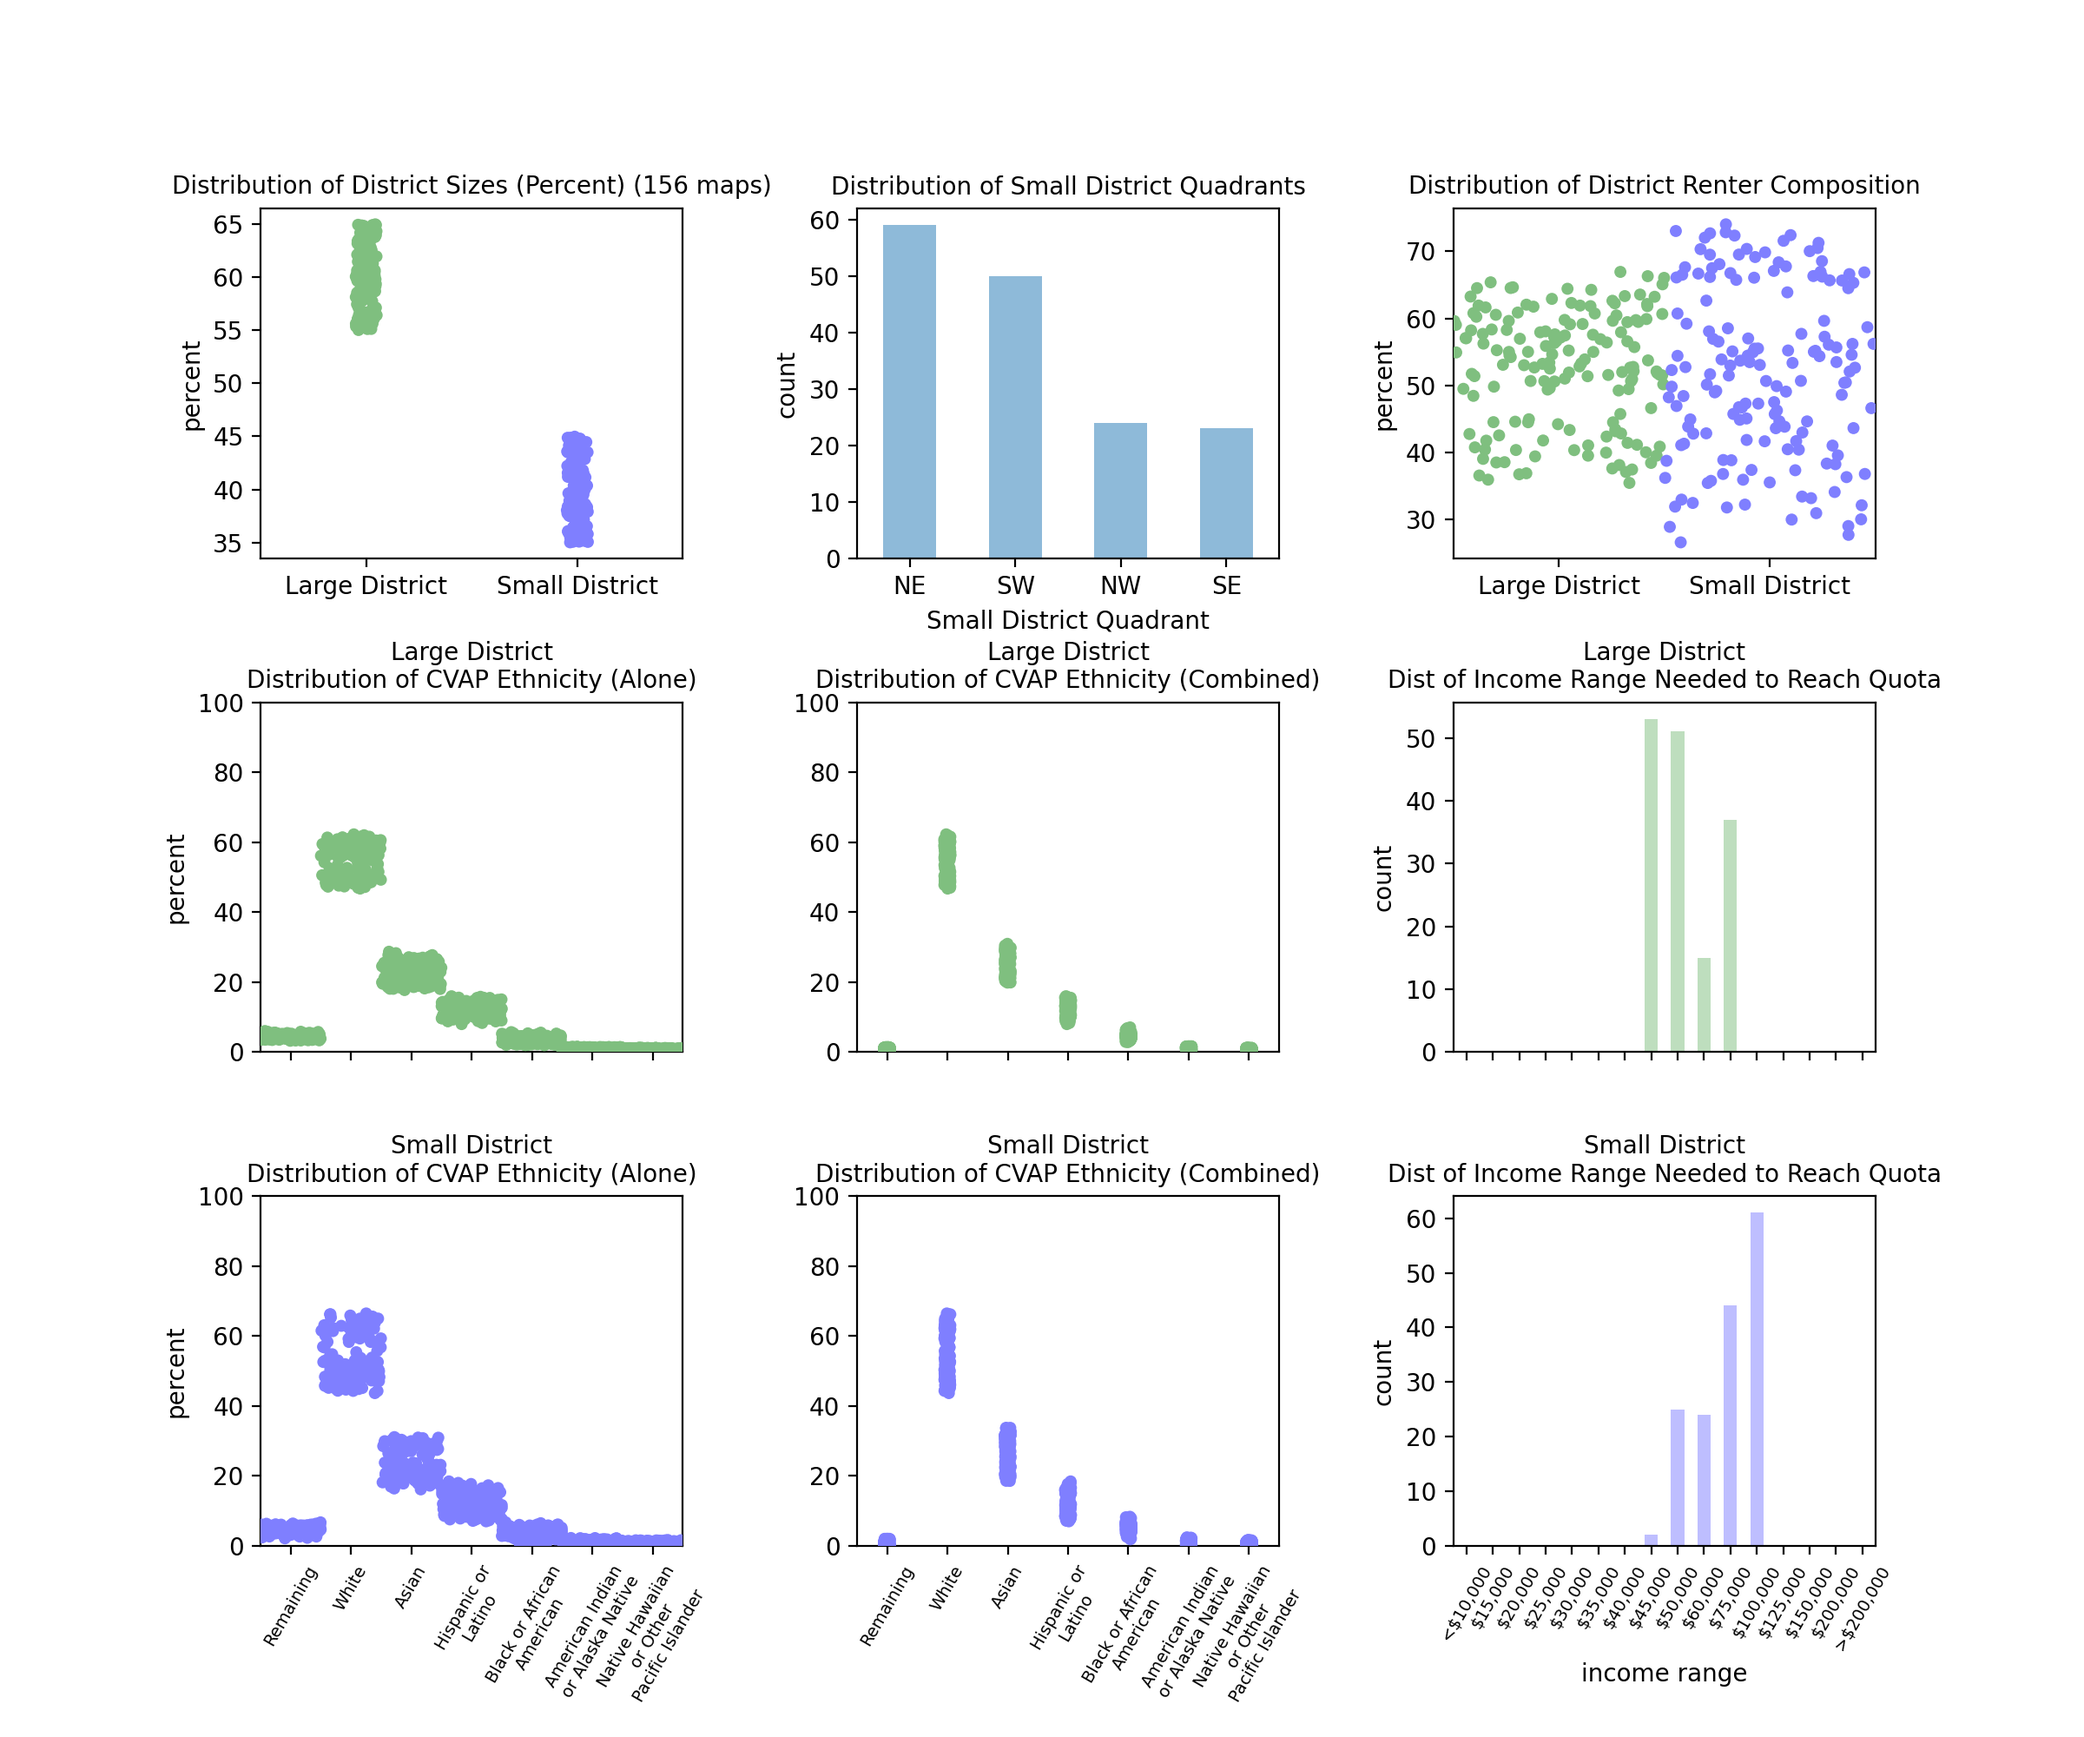
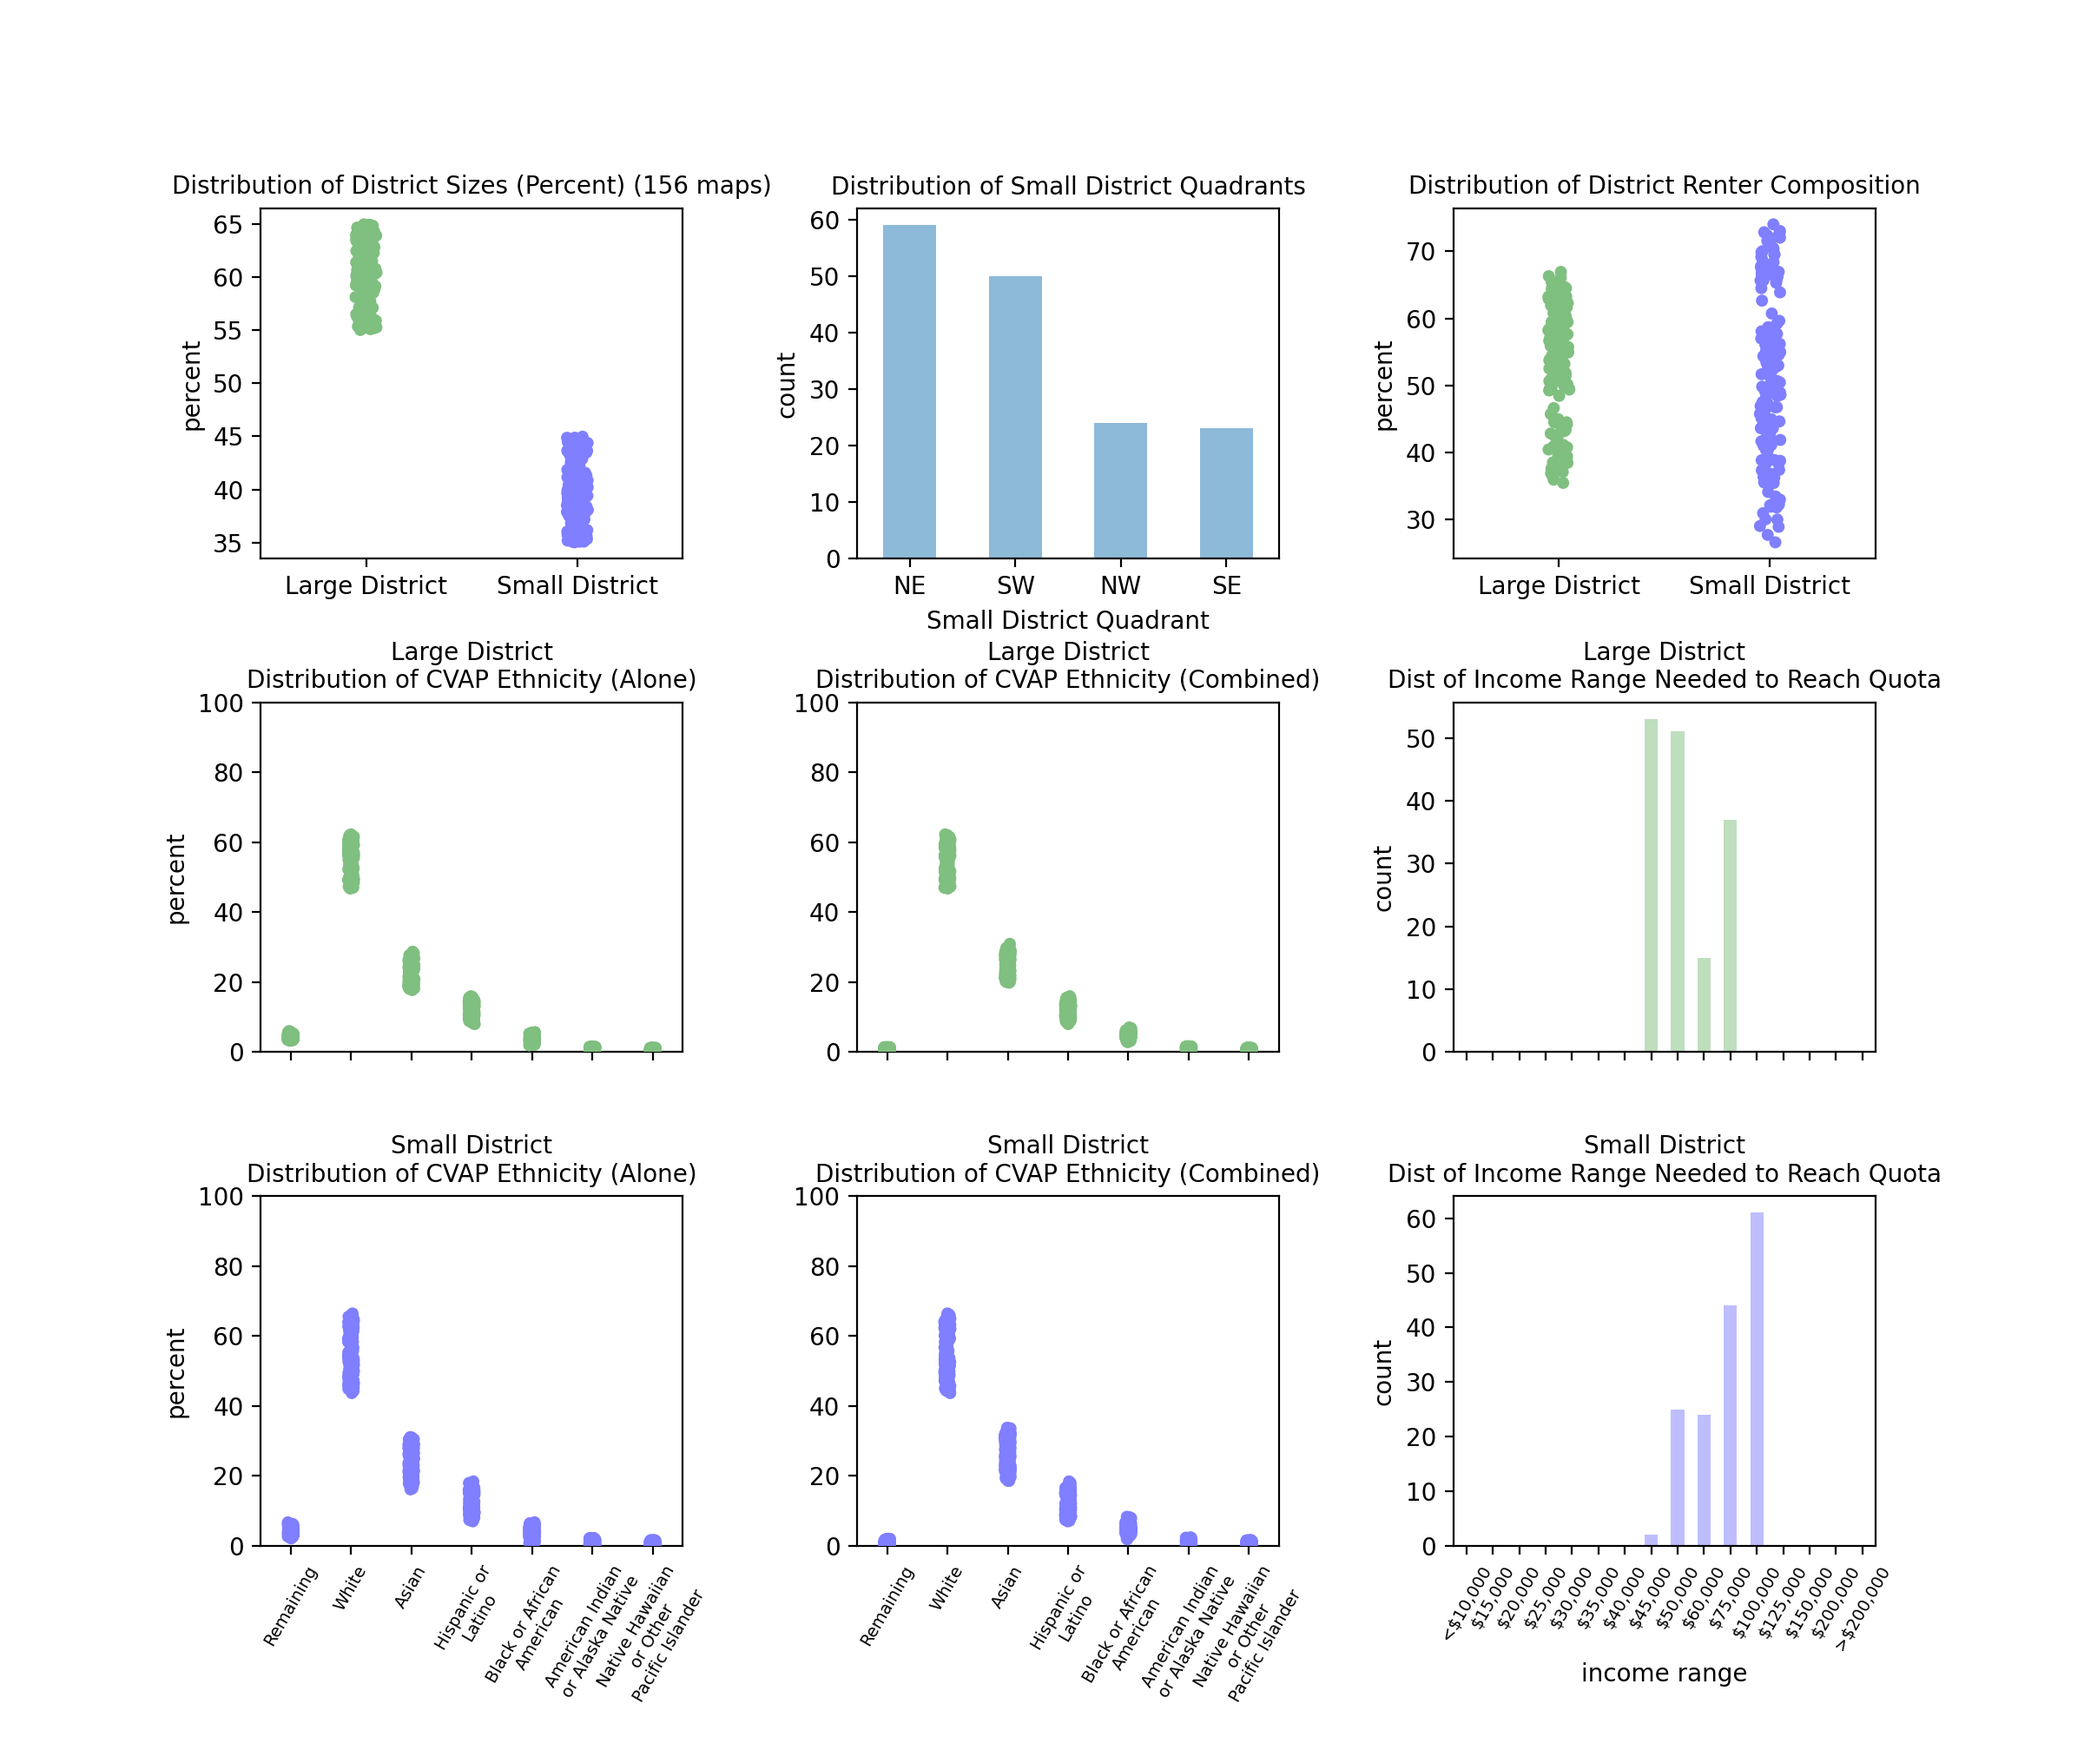
rename income bucket to income range

diff --git a/scripts/generate_maps/plot.py b/scripts/generate_maps/plot.py
@@ -447,31 +447,31 @@ def plot_chain_summary(df: pd.DataFrame, save_path: Optional[str] = None) -> Non
             '>$200,000']
     })
 
-    ld_income_buckets_count = df.loc[:, ['LD_income_bucket_at_quota']].value_counts().to_frame().reset_index()
-    ld_income_buckets_count.columns = ['LD_income_bucket_at_quota', 'count']
+    ld_income_buckets_count = df.loc[:, ['LD_income_range_at_quota']].value_counts().to_frame().reset_index()
+    ld_income_buckets_count.columns = ['LD_income_range_at_quota', 'count']
 
     for k in income_buckets['full_name']:
-        if k not in ld_income_buckets_count['LD_income_bucket_at_quota'].tolist():
-            ld_income_buckets_count = ld_income_buckets_count.append({'LD_income_bucket_at_quota': k, 'count': 0}, ignore_index=True)
+        if k not in ld_income_buckets_count['LD_income_range_at_quota'].tolist():
+            ld_income_buckets_count = ld_income_buckets_count.append({'LD_income_range_at_quota': k, 'count': 0}, ignore_index=True)
 
-    ld_income_buckets_count.index = ld_income_buckets_count['LD_income_bucket_at_quota']
+    ld_income_buckets_count.index = ld_income_buckets_count['LD_income_range_at_quota']
     ld_income_buckets_count = ld_income_buckets_count.loc[income_buckets['full_name'], :]
     ld_income_buckets_count = ld_income_buckets_count.reset_index(drop=True)
-    ld_income_buckets_count['LD_income_bucket_at_quota'] = income_buckets['short_name']
-    ld_income_buckets_count.columns = ['income_bucket', 'count']
+    ld_income_buckets_count['LD_income_range_at_quota'] = income_buckets['short_name']
+    ld_income_buckets_count.columns = ['income_range', 'count']
 
-    sd_income_buckets_count = df.loc[:, ['SD_income_bucket_at_quota']].value_counts().to_frame().reset_index()
-    sd_income_buckets_count.columns = ['SD_income_bucket_at_quota', 'count']
+    sd_income_buckets_count = df.loc[:, ['SD_income_range_at_quota']].value_counts().to_frame().reset_index()
+    sd_income_buckets_count.columns = ['SD_income_range_at_quota', 'count']
 
     for k in income_buckets['full_name']:
-        if k not in sd_income_buckets_count['SD_income_bucket_at_quota'].tolist():
-            sd_income_buckets_count = sd_income_buckets_count.append({'SD_income_bucket_at_quota': k, 'count': 0}, ignore_index=True)
+        if k not in sd_income_buckets_count['SD_income_range_at_quota'].tolist():
+            sd_income_buckets_count = sd_income_buckets_count.append({'SD_income_range_at_quota': k, 'count': 0}, ignore_index=True)
 
-    sd_income_buckets_count.index = sd_income_buckets_count['SD_income_bucket_at_quota']
+    sd_income_buckets_count.index = sd_income_buckets_count['SD_income_range_at_quota']
     sd_income_buckets_count = sd_income_buckets_count.loc[income_buckets['full_name'], :]
     sd_income_buckets_count = sd_income_buckets_count.reset_index(drop=True)
-    sd_income_buckets_count['SD_income_bucket_at_quota'] = income_buckets['short_name']
-    sd_income_buckets_count.columns = ['income_bucket', 'count']
+    sd_income_buckets_count['SD_income_range_at_quota'] = income_buckets['short_name']
+    sd_income_buckets_count.columns = ['income_range', 'count']
 
     eth_col_rename = [
         'Remaining',
@@ -582,7 +582,7 @@ def plot_chain_summary(df: pd.DataFrame, save_path: Optional[str] = None) -> Non
     quadrant_ax.set_xlabel('Small District Quadrant')
 
     # renter 
-    sns_plot = sns.stripplot(ax=renters_ax, x="variable", y="value", data=renter_df, jitter=0.5, hue='variable', palette=colors)
+    sns_plot = sns.stripplot(ax=renters_ax, x="variable", y="value", data=renter_df, jitter=0.05, hue='variable', palette=colors)
     sns_plot.get_legend().remove()
 
     renters_ax.set_xlabel('')
@@ -591,7 +591,7 @@ def plot_chain_summary(df: pd.DataFrame, save_path: Optional[str] = None) -> Non
     renters_ax.set_title('Distribution of District Renter Composition', fontsize=10)
 
     # ld eth alone
-    sns.stripplot(ax=ld_eth_alone_ax, x="variable", y="value", data=ld_eth_alone_df, jitter=0.5, color=colors[0])
+    sns.stripplot(ax=ld_eth_alone_ax, x="variable", y="value", data=ld_eth_alone_df, jitter=0.05, color=colors[0])
 
     ld_eth_alone_ax.set_xlabel('')
     ld_eth_alone_ax.set_title('Large District\nDistribution of CVAP Ethnicity (Alone)', fontsize=10)
@@ -601,7 +601,7 @@ def plot_chain_summary(df: pd.DataFrame, save_path: Optional[str] = None) -> Non
     ld_eth_alone_ax.tick_params(axis='x', which='major', labelsize=8)
 
     # sd eth alone
-    sns.stripplot(ax=sd_eth_alone_ax, x="variable", y="value", data=sd_eth_alone_df, jitter=0.5, color=colors[1])
+    sns.stripplot(ax=sd_eth_alone_ax, x="variable", y="value", data=sd_eth_alone_df, jitter=0.05, color=colors[1])
 
     sd_eth_alone_ax.set_xlabel('')
     sd_eth_alone_ax.set_title('Small District\nDistribution of CVAP Ethnicity (Alone)', fontsize=10)
@@ -635,14 +635,14 @@ def plot_chain_summary(df: pd.DataFrame, save_path: Optional[str] = None) -> Non
     sd_eth_combined_ax.tick_params(axis='x', which='major', labelsize=7)
 
     # income
-    ld_income_buckets_count.plot.bar(ax=ld_income_ax, x='income_bucket', y='count', legend=False, color=colors[0], alpha=0.5, rot=0)
+    ld_income_buckets_count.plot.bar(ax=ld_income_ax, x='income_range', y='count', legend=False, color=colors[0], alpha=0.5, rot=0)
 
     ld_income_ax.set_title('Large District\nDist of Income Range Needed to Reach Quota',  fontsize=10)
     ld_income_ax.set_ylabel('count')
     ld_income_ax.set_xlabel('')
     ld_income_ax.set_xticklabels([])
 
-    sd_income_buckets_count.plot.bar(ax=sd_income_ax, x='income_bucket', y='count', legend=False, color=colors[1], alpha=0.5, rot=0)
+    sd_income_buckets_count.plot.bar(ax=sd_income_ax, x='income_range', y='count', legend=False, color=colors[1], alpha=0.5, rot=0)
 
     sd_income_ax.set_title('Small District\nDist of Income Range Needed to Reach Quota',  fontsize=10)
     sd_income_ax.set_ylabel('count')

diff --git a/scripts/generate_maps/common.py b/scripts/generate_maps/common.py
@@ -203,8 +203,8 @@ def calc_partition_stats(partition_idx: int, partition_info: Dict, geodataframe:
             SD_bucket_reached = income_k
             break
 
-    df['LD_income_bucket_at_quota'] = LD_bucket_reached
-    df['SD_income_bucket_at_quota'] = SD_bucket_reached
+    df['LD_income_range_at_quota'] = LD_bucket_reached
+    df['SD_income_range_at_quota'] = SD_bucket_reached
 
     # add quadrant
     assigned_gdf = geodataframe.copy()
@@ -319,18 +319,19 @@ def run_recom(small_district_lower_bound_prop: float,
         partition_info = reorganize_partition_info(partition, n_district_electeds=n_district_electeds)
         partition_stats = calc_partition_stats(partition_idx, partition_info, gdf)
 
-        tmp = partition_stats['LD_income_bucket_at_quota'].item()
-        partition_stats['LD_income_bucket_at_quota'] = acs_income_col_dict[tmp]
+        tmp = partition_stats['LD_income_range_at_quota'].item()
+        partition_stats['LD_income_range_at_quota'] = acs_income_col_dict[tmp]
 
-        tmp = partition_stats['SD_income_bucket_at_quota'].item()
-        partition_stats['SD_income_bucket_at_quota'] = acs_income_col_dict[tmp]
+        tmp = partition_stats['SD_income_range_at_quota'].item()
+        partition_stats['SD_income_range_at_quota'] = acs_income_col_dict[tmp]
 
         plot.plot_partition(partition_info, gdf, map_output_dir / f'{partition_idx}_map.png')
         plot.plot_partition_stats(partition_info, partition_stats, gdf, map_output_dir / f'{partition_idx}_map_stats.png')
 
         all_partition_stats.append(partition_stats)
 
-    all_stats_df = pd.concat(all_partition_stats).round()
+    all_stats_df = pd.concat(all_partition_stats)
+    all_stats_df = all_stats_df.round()
     all_stats_df.to_csv(map_stats_path, index=False)
 
     plot.plot_chain_summary(all_stats_df, map_summary_plot_path)
